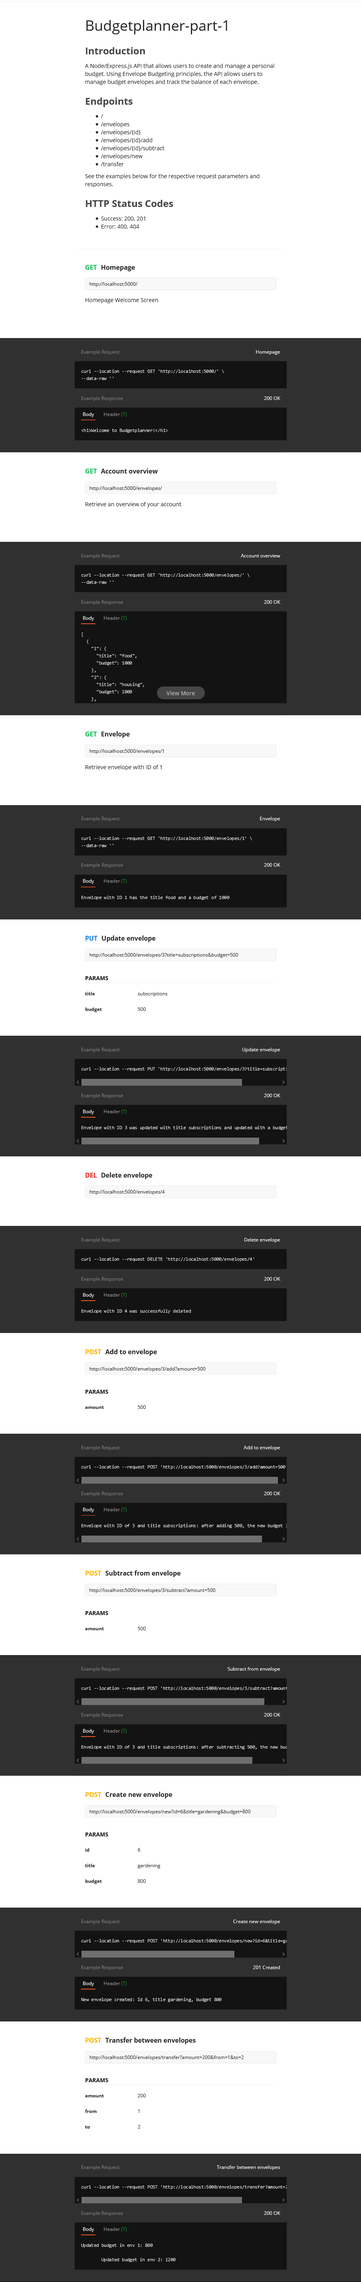
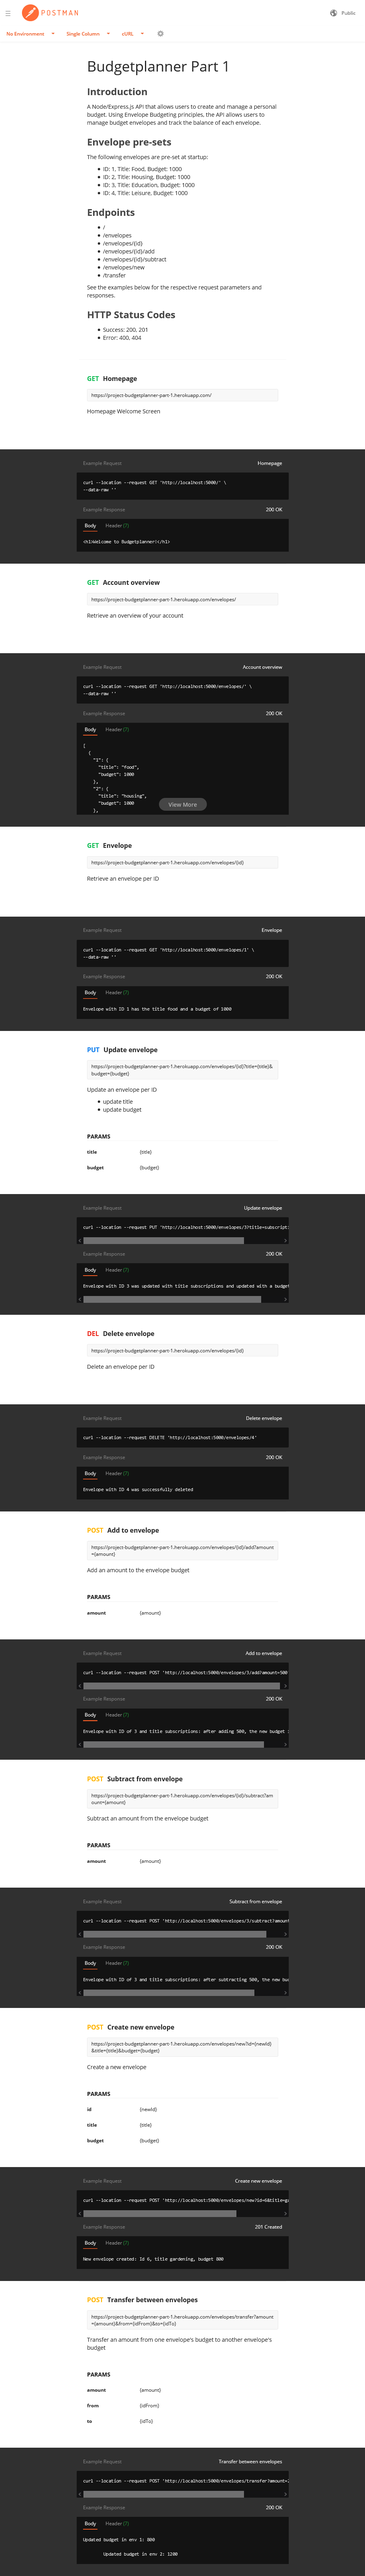
Update README.me and png

Changed region(s): [[0.0, 0.0, 1.0, 0.9974], [0.0619, 0.0, 0.1239, 0.0312]]

diff --git a/README.md b/README.md
@@ -1,4 +1,8 @@
-View the documentation on Postman:
+# Budgetplanner Part 1
+
+The documentation for this API was written using Postman Collections.
+
+Please view the complete API documentation here: 
 
 https://documenter.getpostman.com/view/16754406/TzsYLo2T
 
